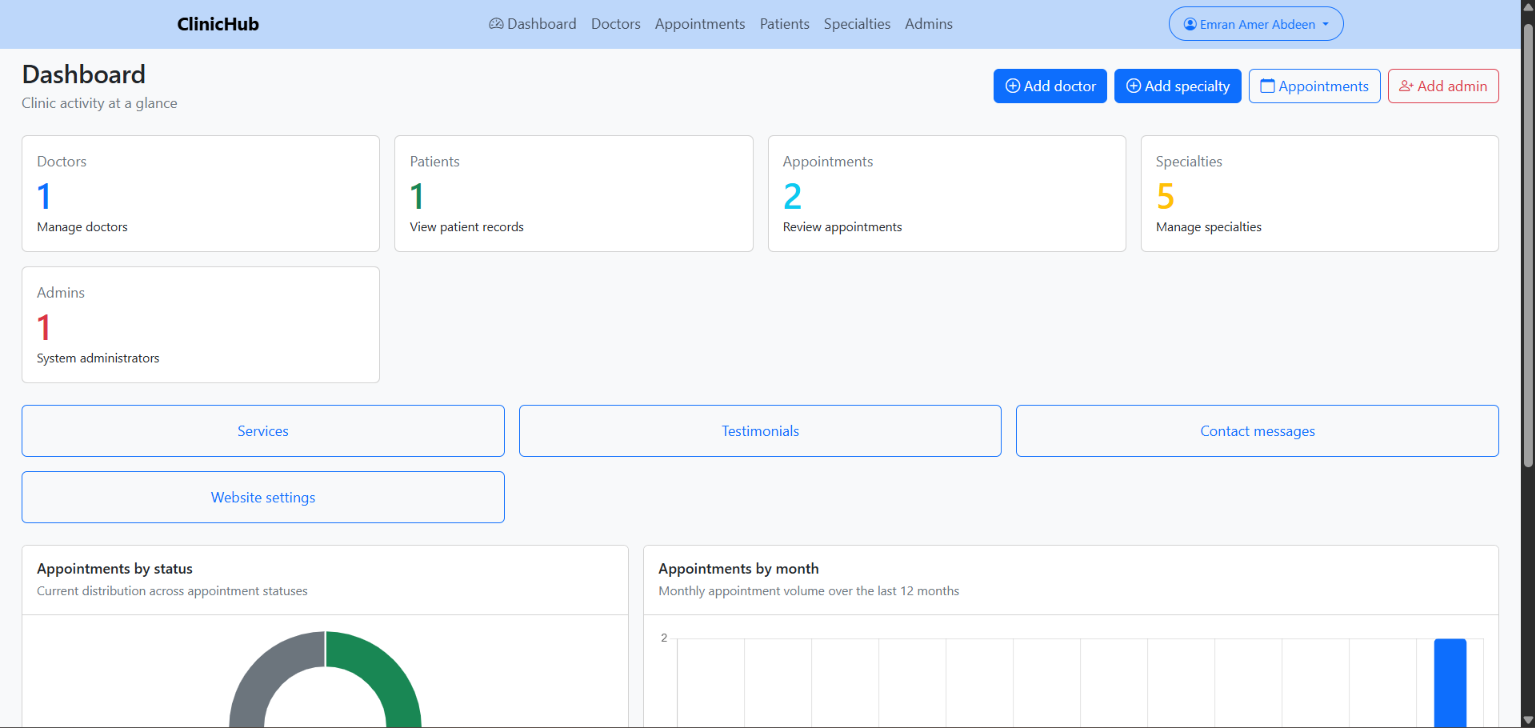
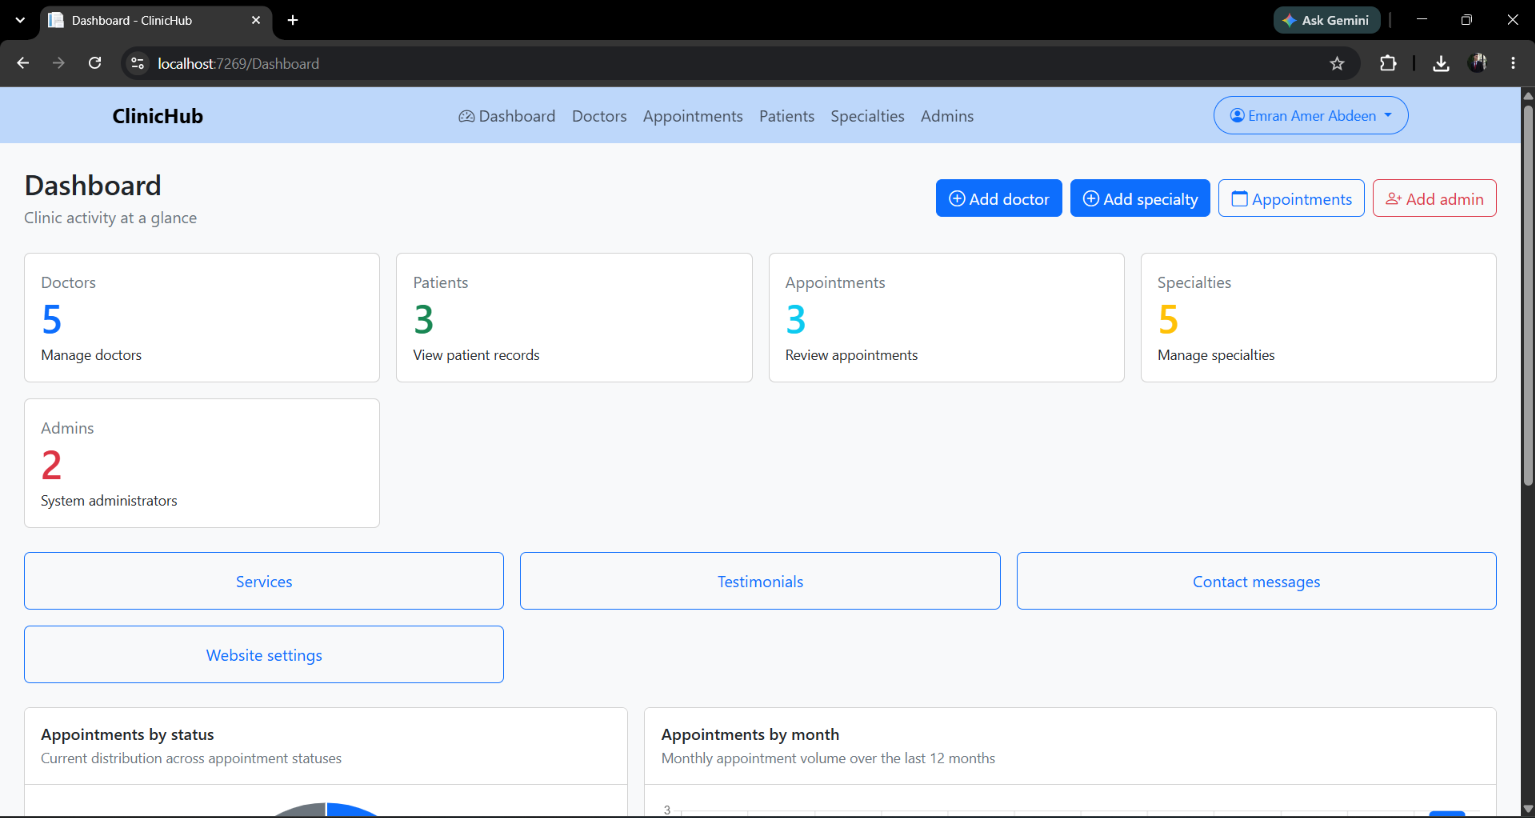
Revise project title and enhance screenshots section

diff --git a/README.md b/README.md
@@ -1,4 +1,4 @@
-# ClinicHub – Smart Clinic Appointment Management System
+# ClinicHub – Clinic Appointment Management System
 
 ClinicHub is a web-based clinic management system built with ASP.NET Core MVC and SQL Server. It helps manage doctors, patients, medical specialties, working schedules, and appointments in one place. The system provides separate accounts for administrators, doctors, and patients, with different permissions for each role.
 
@@ -185,6 +185,8 @@ Add screenshots of the application to demonstrate the main pages and features.
 | Admin Dashboard | ![Admin Dashboard](/docs/Dashboard.png)     |
 | Doctors Page    | ![Doctors Page](/docs/Doctor.png)           |
 | Patient Profile | ![Patient Profile](/docs/patient.png)       |
+| Appointments    | ![Appointments](/docs/Appointments.png)     |
+| Appointments_  | ![Appointments_](/docs/Appointments_.png)   |
 | DoctorSchedule  | ![DoctorSchedule](/docs/DoctorSchedule.png) |
 
 Place your screenshots in a folder such as `docs/Screenshots/` and update this section with their paths.
